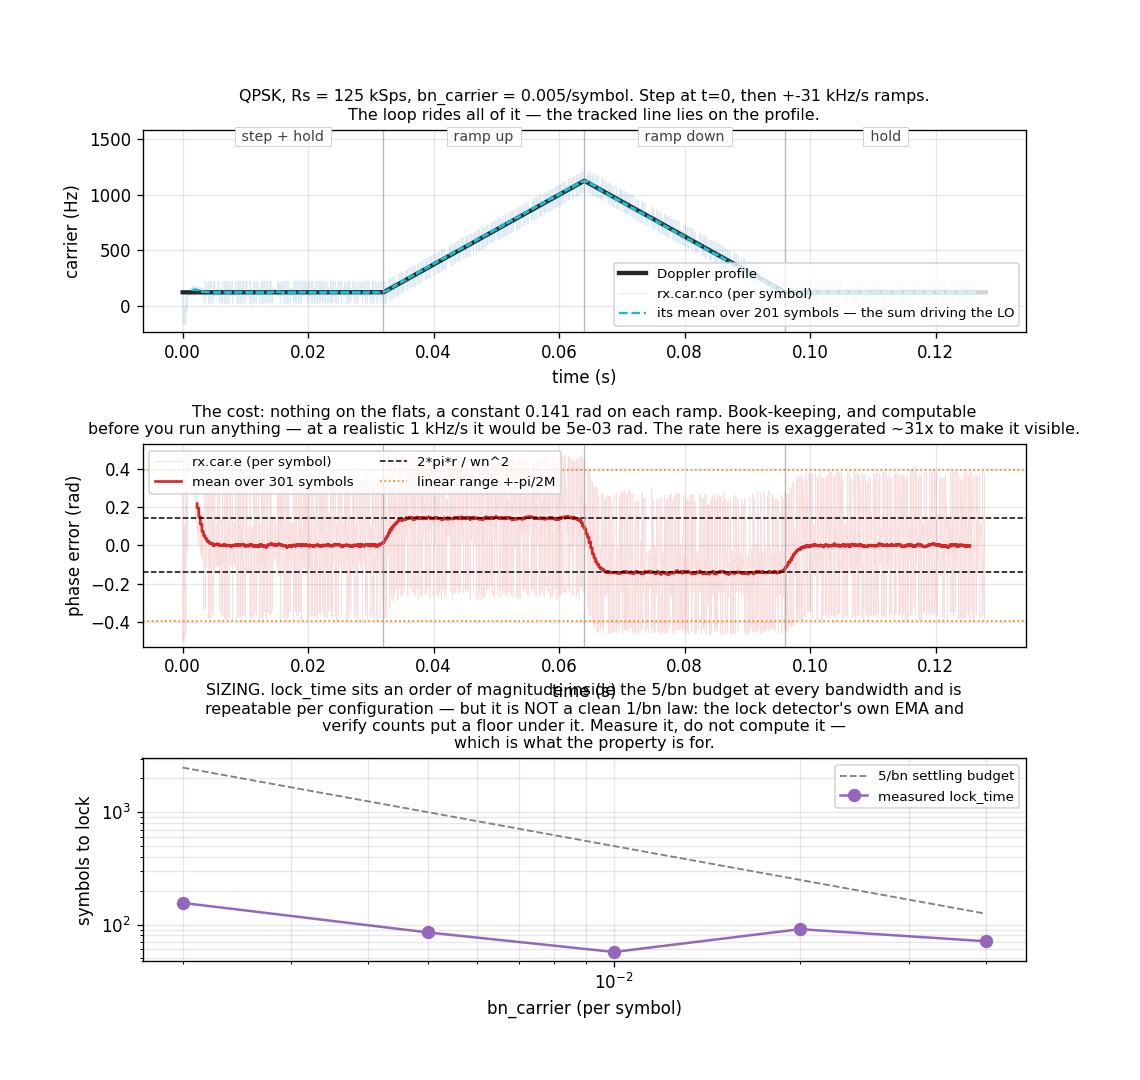
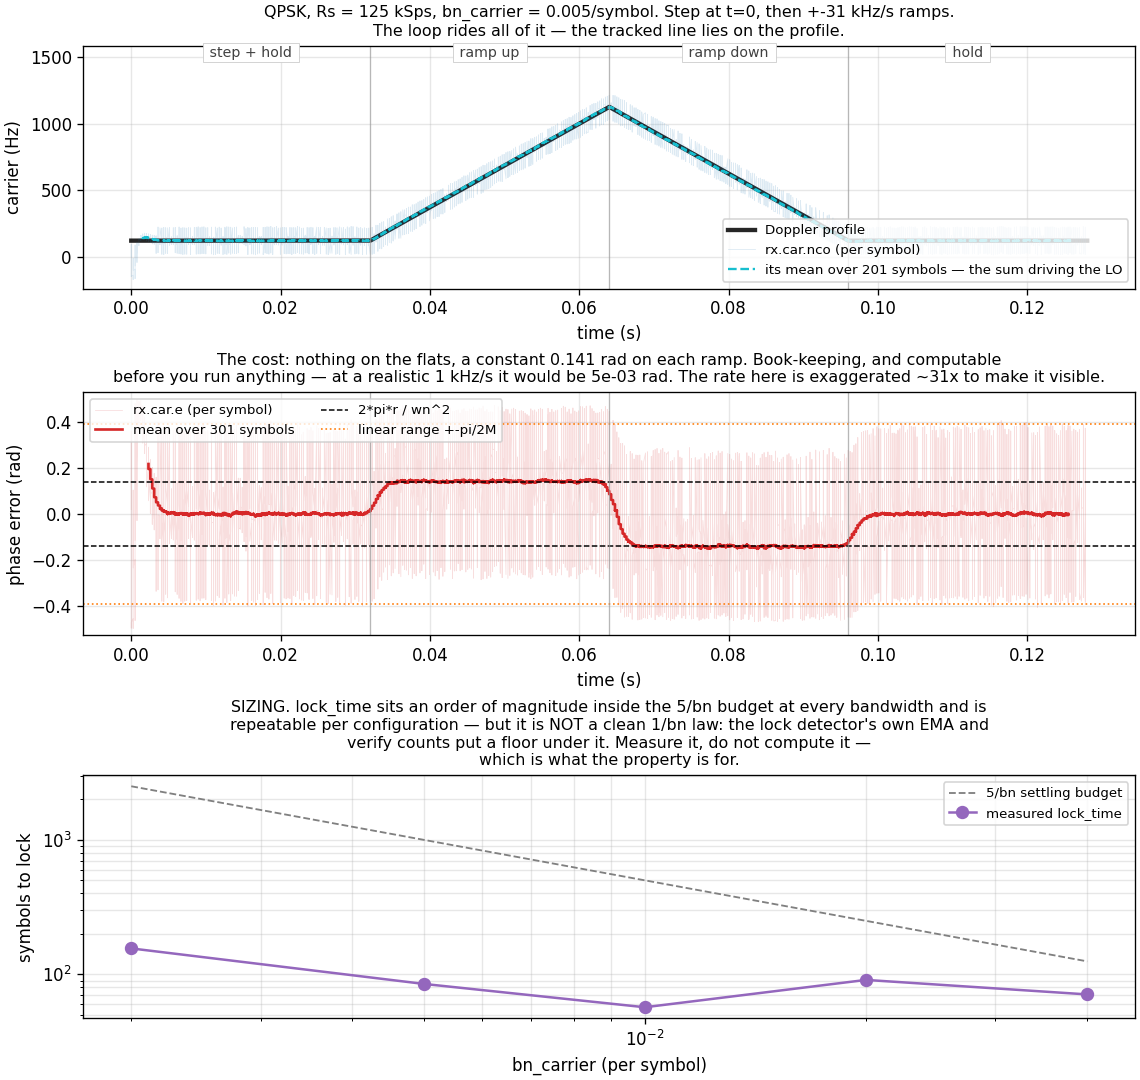
test(examples): a UserWarning fails the examples gate (#2594)
test_examples.py runs every example (and the pairs) under
PYTHONWARNINGS=error::UserWarning, one EXAMPLE_ENV for both runners, the
same rule test-stubs and test-snippets hold with -W error::UserWarning.

Measured: 4 of 93 scripts warned, all fixed rather than excused:
- dsss_burst_demo: DESIGN_CN0_DBHZ 50 -> 58 (reps=1 floor 55). The depth is
  pinned by configure_search_raw, and 96/96 sweep cells detect identically.
- dsss_realtime_file_demod: cn0_dbhz 40 -> 48 (floor 45); output identical.
- burst_capture_demo: cn0_dbhz 55 -> 61 (floor 58). Every assert holds; a
  second false window appears, and the docstring's stale "about 9 dB" (it
  read 12.9) becomes an asserted > 6 dB separation.
- mpsk_doppler_profile_demo: tight_layout cannot lay out its gridspec; it
  uses constrained layout now, and its gallery PNG is re-rendered.

Sabotage: the gate itself is the proof -- on unmodified examples it turned
exactly these four red.

Closes #2594

Claude-Session: https://claude.ai/code/session_01BW3PdXiTzLC7B8dWTQLgSR

diff --git a/src/doppler/tests/test_examples.py b/src/doppler/tests/test_examples.py
@@ -15,8 +15,13 @@ How each example runs
 As a subprocess of the current interpreter, from a throwaway working
 directory (an example writing a PNG or a capture file is fine and never
 pollutes the repo), with ``MPLBACKEND=Agg`` (headless plotting), stdin
-closed, and a wall-clock timeout. Exit code 0 is required; stderr is
-shown on failure. Examples are expected to *validate themselves* --
+closed, a wall-clock timeout, and ``PYTHONWARNINGS=error::UserWarning``
+(#2594): a gallery page ``--8<--``-includes these scripts, so a warning
+here shows the reader a configuration the object itself calls wrong --
+the same rule ``make test-stubs`` and ``make test-snippets`` hold with
+``-W error::UserWarning``. An example that warns ON PURPOSE catches the
+warning in its own code. Exit code 0 is required; stderr is shown on
+failure. Examples are expected to *validate themselves* --
 assert on a BER threshold, a lock flag, a round-trip equality -- so exit
 0 means "demonstrated and checked", not merely "didn't crash".
 
@@ -150,6 +155,11 @@ def _broker_reachable(host: str = "127.0.0.1", port: int = 4222) -> bool:
         return False
 
 
+#: What every example runs under: headless plots, and a UserWarning is an
+#: error (#2594), as it is for the stub and doc-snippet doctests.
+EXAMPLE_ENV = {"MPLBACKEND": "Agg", "PYTHONWARNINGS": "error::UserWarning"}
+
+
 @pytest.mark.parametrize(
     "script",
     [_param(s) for s in SCRIPTS],
@@ -178,7 +188,7 @@ def test_example_runs(script: Path, tmp_path: Path) -> None:
     # FileNotFoundError (gh-954). Creating the directory an example
     # expects is accommodating the defect, not testing for it.
 
-    env = dict(os.environ, MPLBACKEND="Agg")
+    env = dict(os.environ, **EXAMPLE_ENV)
     proc = subprocess.run(
         [sys.executable, str(script)],
         cwd=tmp_path,
@@ -223,7 +233,7 @@ def _start(script: str, cwd: Path) -> tuple[subprocess.Popen, list[str]]:
     proc = subprocess.Popen(
         [sys.executable, str(EXAMPLES_DIR / script)],
         cwd=cwd,
-        env=dict(os.environ, MPLBACKEND="Agg", PYTHONUNBUFFERED="1"),
+        env=dict(os.environ, **EXAMPLE_ENV, PYTHONUNBUFFERED="1"),
         stdin=subprocess.DEVNULL,
         stdout=subprocess.PIPE,
         stderr=subprocess.STDOUT,

diff --git a/src/doppler/examples/burst_capture_demo.py b/src/doppler/examples/burst_capture_demo.py
@@ -17,7 +17,7 @@ What this shows
 3. **How to tell a real burst from a false alarm.** At `pfa = 1e-3` a
    spurious window is expected — this object is a detector's output stage and
    will not gate on signal quality. The read-back that separates them is
-   `cn0_dbhz_est`, by about 9 dB.
+   `cn0_dbhz_est`, by more than 6 dB here (the run prints the margin).
 
 Every claim above is asserted, so exit 0 means demonstrated AND checked.
 
@@ -142,7 +142,9 @@ def capture() -> BurstCapture:
         burst_len=BURST_LEN,
         reps=REPS,
         fs=CHIP_RATE * SPC,
-        cn0_dbhz=55.0,
+        # The design point, 3 dB over this geometry's feasibility floor
+        # (58 dB-Hz). The scene's bursts arrive far stronger (~97 dB-Hz).
+        cn0_dbhz=61.0,
     )
 
 
@@ -210,7 +212,10 @@ def main() -> None:
             f"  cn0_dbhz_est separates them by {cn0_real - cn0_spur:.1f} dB "
             f"({cn0_real:.1f} vs {cn0_spur:.1f}) — filter on THIS"
         )
-        assert cn0_real > cn0_spur, "C/N0 must be higher at a real burst"
+        assert cn0_real - cn0_spur > 6.0, (
+            f"cn0_dbhz_est must separate real from spurious by > 6 dB "
+            f"({cn0_real:.1f} vs {cn0_spur:.1f})"
+        )
     else:
         print("  (no false alarm in this scene — the separation is in §2.5 of")
         print("   the validation report, over many more trials)")

diff --git a/src/doppler/examples/mpsk_doppler_profile_demo.py b/src/doppler/examples/mpsk_doppler_profile_demo.py
@@ -210,8 +210,8 @@ def main(out_path: str = "mpsk_doppler_profile_demo.png") -> None:
         "does not, these two probes are the same view"
     )
 
-    fig = plt.figure(figsize=(9.5, 9.0))
-    gs = fig.add_gridspec(3, 1, hspace=0.55)
+    fig = plt.figure(figsize=(9.5, 9.0), layout="constrained")
+    gs = fig.add_gridspec(3, 1)
     ax0, ax1, ax2 = (fig.add_subplot(gs[i]) for i in range(3))
     ax1.sharex(ax0)
     t_all = np.arange(freq.size) / FS
@@ -354,7 +354,6 @@ def main(out_path: str = "mpsk_doppler_profile_demo.png") -> None:
             bbox={"fc": "white", "ec": "0.8", "lw": 0.5, "pad": 1.5},
         )
 
-    fig.tight_layout()
     fig.savefig(out_path, dpi=120)
     print(
         f"wrote {out_path}  (lock_time {rx.lock_time} symbols, "

diff --git a/src/doppler/examples/dsss_burst_demo.py b/src/doppler/examples/dsss_burst_demo.py
@@ -302,7 +302,11 @@ assert occ_pay / occ_acq > 0.5, (
 REPS_SWEEP = [1, 2, 4, 8]
 SWEEP_SNRS = np.arange(-26.0, -7.0, 1.0)
 SWEEP_TRIALS = 40  # independent noise draws per (reps, SNR) cell
-DESIGN_CN0_DBHZ = 50.0  # the acquirer is sized once, not per sweep point
+#: The acquirer is sized once, not per sweep point. With the depth pinned by
+#: configure_search_raw() this only has to clear the reps=1 arm's feasibility
+#: floor (55 dB-Hz) so the object does not call its own configuration
+#: under-powered; the detections themselves do not move with it.
+DESIGN_CN0_DBHZ = 58.0
 
 
 def detects(reps: int, snr_db: float, seed: int) -> bool:

diff --git a/src/doppler/examples/dsss_realtime_file_demod.py b/src/doppler/examples/dsss_realtime_file_demod.py
@@ -253,7 +253,10 @@ def decode_chunk(chunk, *, nominal_hz=NOMINAL_HZ):
         np.repeat(nrz, SPC).astype(np.complex64),
         reps=REPS,
         fs=CHIP_RATE * SPC,
-        cn0_dbhz=40.0,
+        # 3 dB over this preamble's feasibility floor (45 dB-Hz), so the
+        # object does not call its own sizing under-powered; the depth is
+        # pinned just below, so this sets no detection behaviour.
+        cn0_dbhz=48.0,
     )
     # Pin n_noncoh=1: a single push() below must decide immediately: with
     # no caller-facing max_noncoh knob left to default to "coherent-only,"

diff --git a/changelog.d/fixed/examples-warn-fail.md b/changelog.d/fixed/examples-warn-fail.md
@@ -1,0 +1,6 @@
+- **An example script that raises a `UserWarning` now fails its gate.**
+    `make test-examples-python` runs every example with
+    `PYTHONWARNINGS=error::UserWarning`, as the stub and doc-snippet doctests
+    already do, since gallery pages include these scripts (#2594). Three
+    acquisition examples were built under their own feasibility floor and now
+    sit 3 dB above it; the Doppler-profile figure uses constrained layout.
